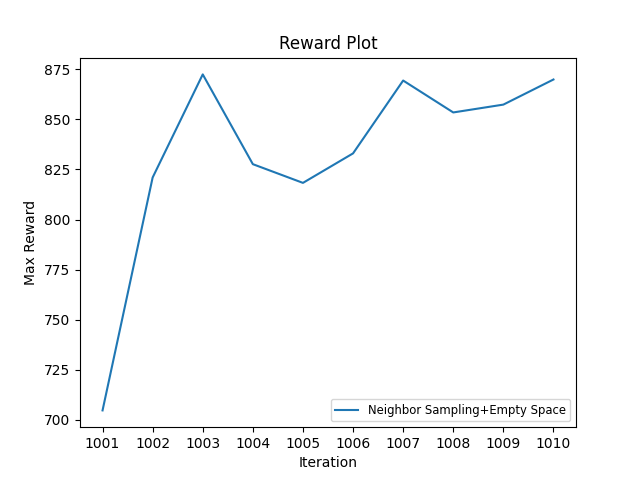
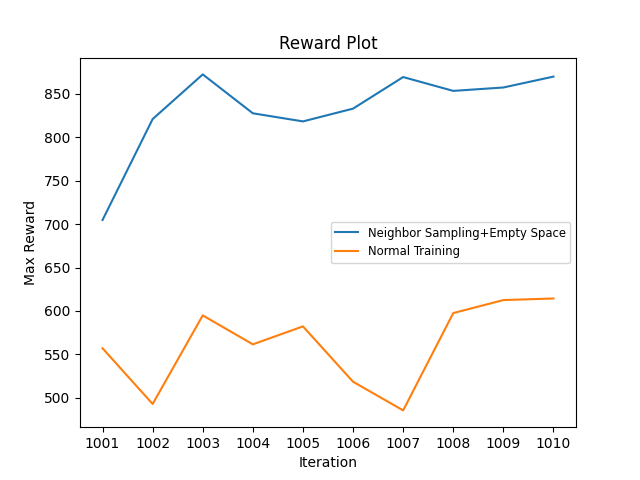
normal training code

diff --git a/main.py b/main.py
@@ -403,7 +403,7 @@ SEARCH_INTERV = 1
 NUM_ITERS = START_ITER + 10
 N_EPOCHS = 10
 
-exp = "PPO_random_search_random_walk"
+exp = "PPO_normal_train"
 DIR = env_name + "/" + exp + "_" + str(get_latest_run_id('logs/'+env_name+"/", exp)+1)
 ckp_dir = f'logs/{DIR}/models'
 
@@ -433,48 +433,70 @@ obs = vec_env.reset()
 
 print("Starting evaluation")
 
+normal_train = False
 distanceArray = []
 start_time = time.time()
 timeArray = []
 
-for i in range(START_ITER, NUM_ITERS, SEARCH_INTERV):
-    print(i)
-    model.learn(total_timesteps=SEARCH_INTERV*n_steps_per_rollout*vec_env.num_envs,
-                log_interval=1, 
-                tb_log_name=exp, 
-                reset_num_timesteps=True if i == START_ITER else False, 
-                first_iteration=True if i == START_ITER else False,
-                )
-    
-    # agents, distance = search_empty_space_policies(model, DIR, i + 1, i + SEARCH_INTERV + 1, env)
-    # agents, distance = neighbor_search_random_walk(model, DIR, i + 1, i + SEARCH_INTERV + 1, env)
-    # agents, distance = random_search_policies(model, DIR, i + 1, i + SEARCH_INTERV + 1, env)
-    # agents, distance = random_search_empty_space_policies(model, DIR, i + 1, i + SEARCH_INTERV + 1, env)
-    agents, distance = random_search_random_walk(model, DIR, i + 1, i + SEARCH_INTERV + 1, env)
-    distanceArray.append(distance)
-    
-    cum_rews = []
-
-    for j, a in enumerate(agents):
-        model.policy.load_state_dict(a)
-        model.policy.to(device)
+if not normal_train:
+    for i in range(START_ITER, NUM_ITERS, SEARCH_INTERV):
+        print(i)
+        model.learn(total_timesteps=SEARCH_INTERV*n_steps_per_rollout*vec_env.num_envs,
+                    log_interval=1, 
+                    tb_log_name=exp, 
+                    reset_num_timesteps=True if i == START_ITER else False, 
+                    first_iteration=True if i == START_ITER else False,
+                    )
         
+        # agents, distance = search_empty_space_policies(model, DIR, i + 1, i + SEARCH_INTERV + 1, env)
+        # agents, distance = neighbor_search_random_walk(model, DIR, i + 1, i + SEARCH_INTERV + 1, env)
+        # agents, distance = random_search_policies(model, DIR, i + 1, i + SEARCH_INTERV + 1, env)
+        # agents, distance = random_search_empty_space_policies(model, DIR, i + 1, i + SEARCH_INTERV + 1, env)
+        agents, distance = random_search_random_walk(model, DIR, i + 1, i + SEARCH_INTERV + 1, env)
+        distanceArray.append(distance)
+        
+        cum_rews = []
+
+        for j, a in enumerate(agents):
+            model.policy.load_state_dict(a)
+            model.policy.to(device)
+            
+            returns_trains = evaluate_policy(model, vec_env, n_eval_episodes=5, deterministic=True)[0]
+            print(f'avg return on 5 trajectories of agent{j}: {returns_trains}')
+            cum_rews.append(returns_trains)
+            
+        np.save(f'logs/{DIR}/agents_{i}_{i + SEARCH_INTERV}.npy', agents)
+        np.save(f'logs/{DIR}/results_{i}_{i + SEARCH_INTERV}.npy', cum_rews)
+        timeArray.append(time.time() - start_time)
+
+        best_idx = np.argsort(cum_rews)[-1]
+        best_agent = agents[best_idx]
+        print(f'the best agent: {best_idx}, avg policy: {cum_rews[best_idx]}')
+        load_state_dict(model, best_agent)
+
+    np.save(f'logs/{DIR}/distance.npy', distanceArray)
+    np.save(f'logs/{DIR}/time.npy', timeArray)
+    print("Average distance of random agents to nearest neighbors:", distanceArray)
+    print("Time taken for each iteration:", timeArray)
+
+else:
+    for i in range(START_ITER, NUM_ITERS, SEARCH_INTERV):
+        model.learn(total_timesteps=SEARCH_INTERV*n_steps_per_rollout*vec_env.num_envs,
+                    log_interval=1, 
+                    tb_log_name=exp, 
+                    reset_num_timesteps=True if i == START_ITER else False, 
+                    first_iteration=True if i == START_ITER else False,
+                    )
+
+        cum_rews = []
+
         returns_trains = evaluate_policy(model, vec_env, n_eval_episodes=5, deterministic=True)[0]
-        print(f'avg return on 5 trajectories of agent{j}: {returns_trains}')
+        print(f'avg return on policy: {returns_trains}')
         cum_rews.append(returns_trains)
-        
-    np.save(f'logs/{DIR}/agents_{i}_{i + SEARCH_INTERV}.npy', agents)
-    np.save(f'logs/{DIR}/results_{i}_{i + SEARCH_INTERV}.npy', cum_rews)
-    timeArray.append(time.time() - start_time)
-
-    best_idx = np.argsort(cum_rews)[-1]
-    best_agent = agents[best_idx]
-    print(f'the best agent: {best_idx}, avg policy: {cum_rews[best_idx]}')
-    load_state_dict(model, best_agent)
-
-np.save(f'logs/{DIR}/distance.npy', distanceArray)
-np.save(f'logs/{DIR}/time.npy', timeArray)
-print("Average distance of random agents to nearest neighbors:", distanceArray)
-print("Time taken for each iteration:", timeArray)
+        np.save(f'logs/{DIR}/results_{i}_{i + SEARCH_INTERV}.npy', cum_rews)
+        timeArray.append(time.time() - start_time)
+    
+    np.save(f'logs/{DIR}/time.npy', timeArray)
+    print("Time taken for each iteration:", timeArray)
 
 env.close()

diff --git a/plots/plot_reward.py b/plots/plot_reward.py
@@ -41,8 +41,6 @@ for filename in os.listdir(directory):
         # Append the maximum reward to the rewards list
         rewards.append(max_reward)
 
-print(x)
-print(rewards)
 # Choose appropriate value from the rewards
 rewards = rewards[::x_step_size]
 
@@ -50,6 +48,35 @@ rewards = rewards[::x_step_size]
 plt.plot(x, rewards, label="Neighbor Sampling+Empty Space")
 # except :
 #     print("Error in empty space directory")
+
+# -------------------------------------------------------
+
+# Load the rewards from the normal_train directory
+
+# Loop through the directories and load the rewards
+directory = "../logs/Ant-v5/PPO_normal_train"+iterationString
+print("------------------------------------")
+print("Working on normal_train directory")
+rewards = []
+try:
+    for filename in os.listdir(directory):
+        # Check if the filename starts with "results"
+        if filename.startswith('results'):
+            # print(filename)
+            # Load the rewards
+            results = np.load(directory + "/" + filename)
+            # Find the maximum reward
+            max_reward = np.max(results)
+            # Append the maximum reward to the rewards list
+            rewards.append(max_reward)
+
+    # Choose appropriate value from the rewards
+    rewards = rewards[::x_step_size]
+
+    # Plot the rewards
+    plt.plot(x, rewards, label="Normal Training")
+except:
+    print("Error in normal train directory")
 
 # -------------------------------------------------------
 
